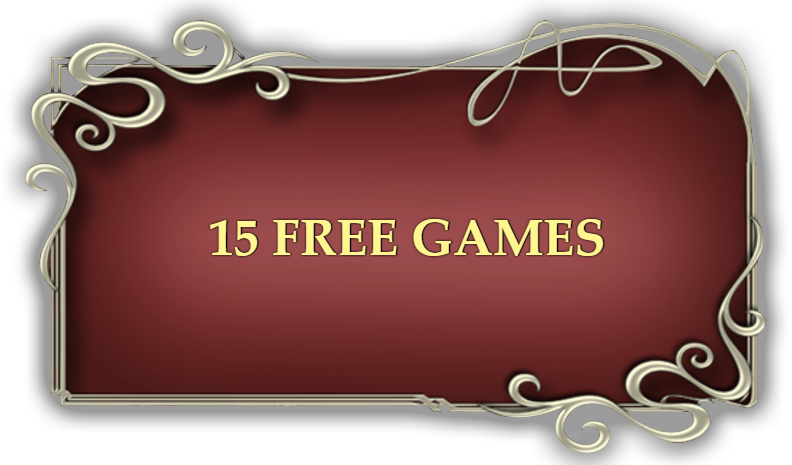
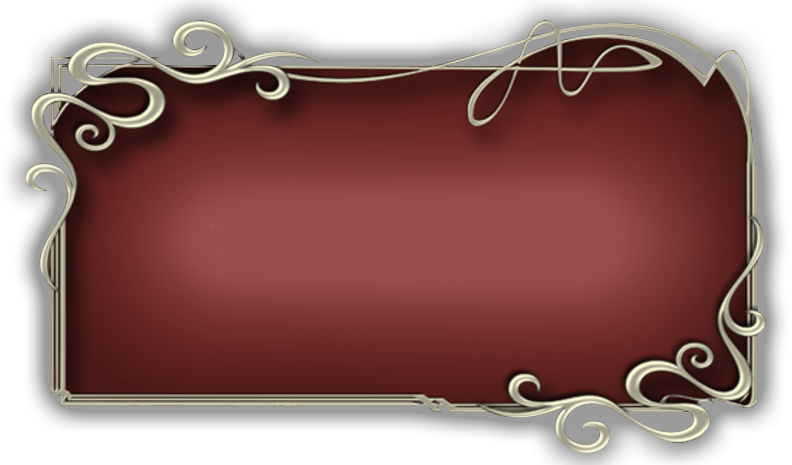
luckyladyglamour done

Changed region(s): [[0.2424, 0.4516, 0.7879, 0.572]]

diff --git a/public/js/luckyladysglamor_settings.js b/public/js/luckyladysglamor_settings.js
@@ -1,6 +1,6 @@
 var settings = {
-    "symbolSize": 234,
-    "spaceBetweenReels": 34,
+    "symbolSize": 220,
+    "spaceBetweenReels": 30,
 
     "numOfRows": 3,
     "numOfReels": 5,
@@ -30,7 +30,7 @@ var settings = {
         {"image": "1.png"},
         {"image": "2.png"},
         {"image": "3.png"},
-        {"image": "4.png", "animation": "4Anim.png"},
+        {"image": "4.png"},
         {"image": "5.png"},
         {"image": "6.png"},
         {"image": "7.png"},
@@ -38,7 +38,7 @@ var settings = {
         {"image": "9.png"},
         {"image": "10.png"},
         {"image": "11.png"},
-        {"image": "12.png"},
+        {"image": "12.png", "isScatter": true},
         {"image": "13.png"}
     ]
 }

diff --git a/resources/assets/sass/divslot/games/luckyladysglamor.scss b/resources/assets/sass/divslot/games/luckyladysglamor.scss
@@ -1,10 +1,13 @@
 @import "../game_types/with_borders";
 
-
 .alert .content {
     background: url('../img/games/luckyladysglamor/images/freeSpinBg.png');
-    width: 541px;
-    height: 497px;
+    width: 1015px;
+    height: 504px;
+    background-size: 100% 100%;
+    font-size: 30px;
+    font-weight: 900;
+    text-transform: uppercase;
 }
 .main {
     background: url('../img/games/luckyladysglamor/game_bg.png') center center;
@@ -34,4 +37,9 @@
 }
 .gamble {
     background: url('../img/games/luckyladysglamor/gamble/gamble_bg.png');
+    top: 155px;
+    width: 1402px;
+    height: 679px;
+    background-size: 100% 100%;
+    border-radius: 20px;
 }

diff --git a/resources/assets/sass/divslot/games/nautilus.scss b/resources/assets/sass/divslot/games/nautilus.scss
@@ -31,7 +31,7 @@
 }
 
 .alert .content {
-    background: url("../img/games/nautilus/freeSpinBg.png");
+    background: url("../img/games/nautilus/images/freeSpinBg.png");
     width: 1015px;
     height: 504px;
     background-size: 100% 100%;

diff --git a/app/Game/Games/LuckyLadysGlamor.php b/app/Game/Games/LuckyLadysGlamor.php
@@ -6,8 +6,8 @@ use App\Game\Games\Game;
 
 class LuckyLadysGlamor extends Game {
     public static $reelsAmount = 5;
-    public static $scatter = 12;
-    public static $joker = 6;
+    public static $scatter = 11;
+    public static $joker = 5;
     public static $freeSpinsAmount = 15;
     public static $symbolsAmount = 13;
     public static $paytable = [
@@ -35,7 +35,7 @@ class LuckyLadysGlamor extends Game {
     }
 
     public function bonusSpin() {
-        return $this->game->bonusSpin("FreeSpins");
+        return $this->game->bonusSpin("FreeSpinsMultiplier");
     }
 
     public function areBonusSpins() {
